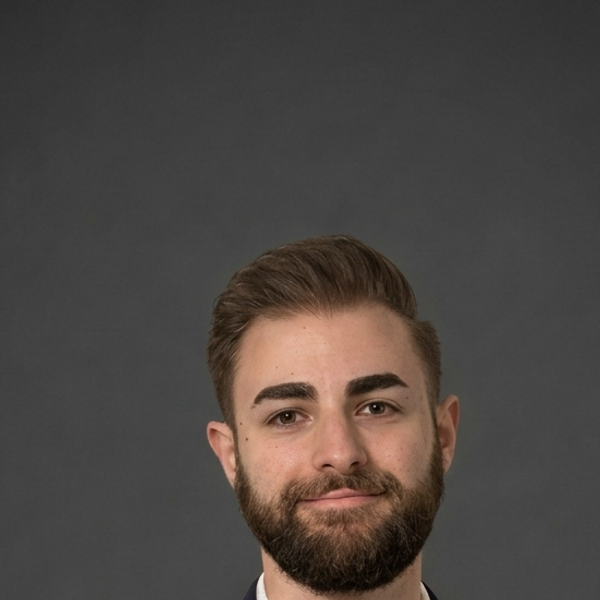
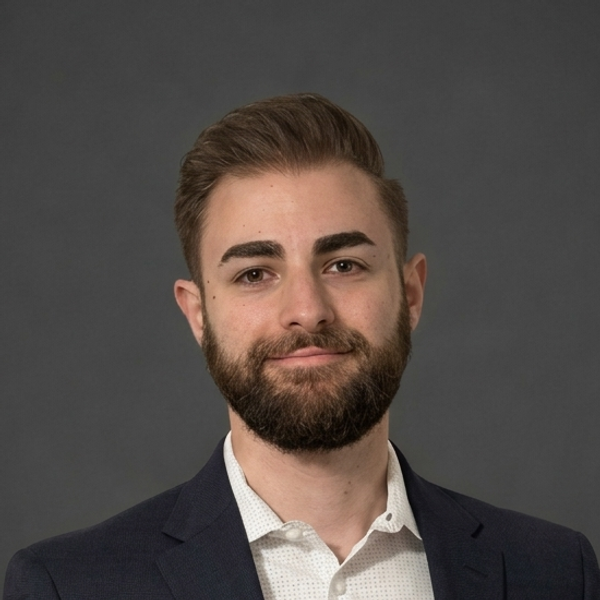
Remove unused profile image versions and rename final to profile.png

diff --git a/src/components/About.tsx b/src/components/About.tsx
@@ -14,7 +14,7 @@ export default function About() {
           {/* Profile photo */}
           <div className="flex justify-center md:justify-start">
             <Image
-              src="/images/profile-v10.png"
+              src="/images/profile.png"
               alt="Adam Moskowitz"
               width={240}
               height={240}
